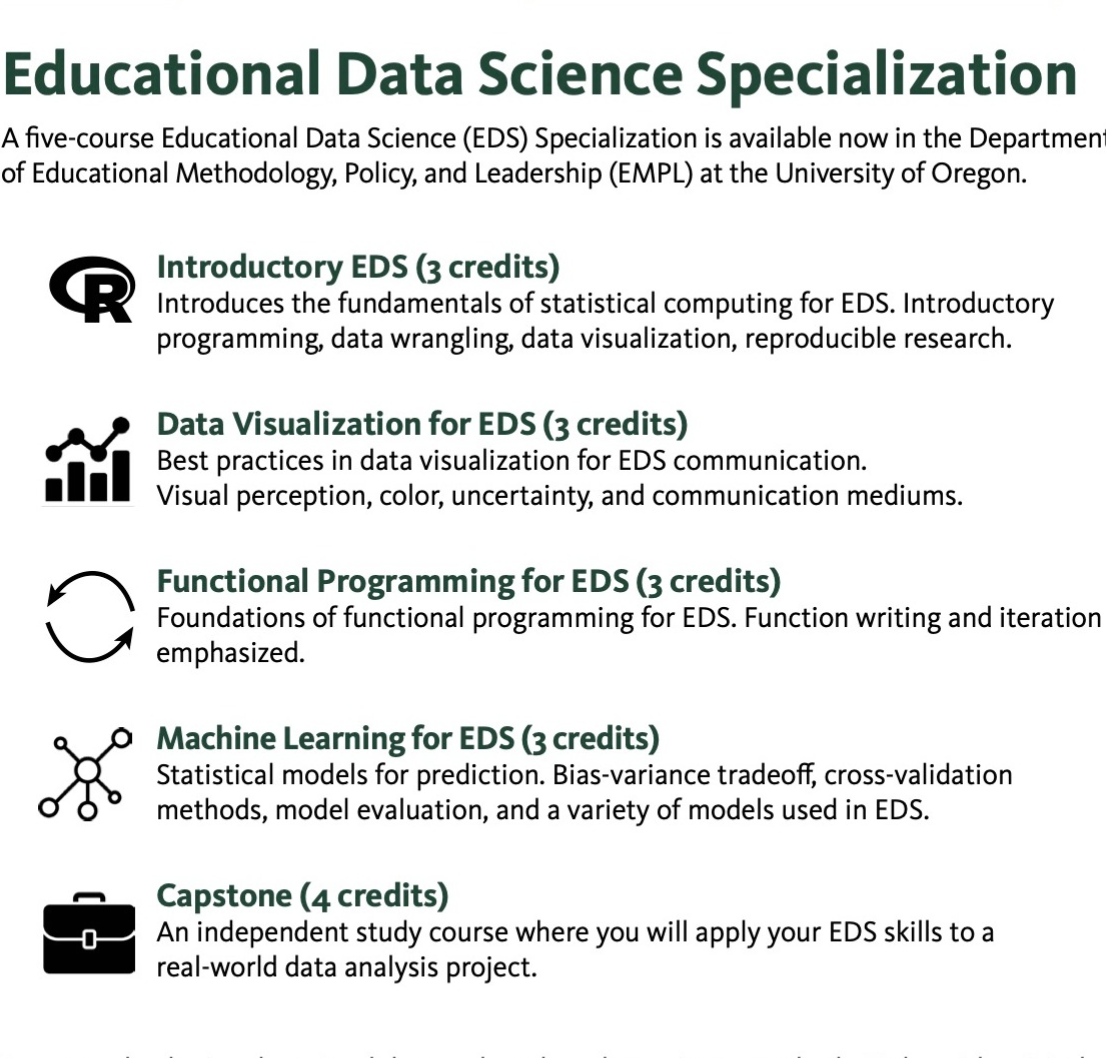
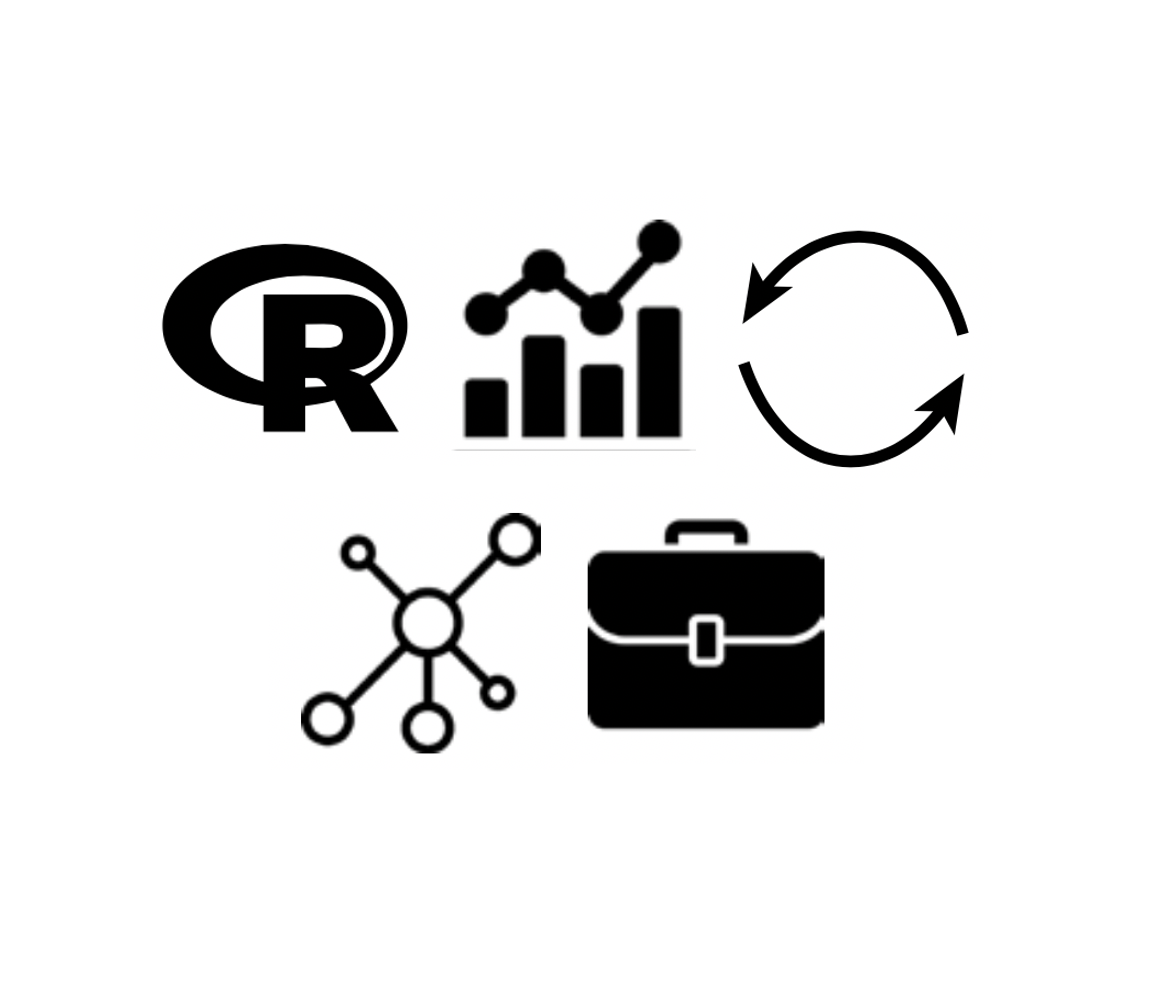
update projects

diff --git a/content/project/uopsych-r-bootcamp/index.md b/content/project/uopsych-r-bootcamp/index.md
@@ -37,6 +37,14 @@ I organized and taught a 3-day introductory R Bootcamp for the Department of Psy
 
 The materials have been designed such that you should be able to work through the slides and exercises at your own pace if you were not able to attend the bootcamp sessions. All materials are available on the bootcamp website: https://uopsych-r-bootcamp-2021.netlify.app/
 
+<div>
+  <iframe
+      width="700"
+      height="500"
+      src="https://uopsych-r-bootcamp-2021.netlify.app/">
+  </iframe>
+</div>
+
 ***
 
 This bootcamp gives a gentle introduction to R and RStudio, transforming and visualizing data with the tidyverse, and the basics of R Markdown. It assumes no prior experience with R or any other programming language and is designed to get learners up and running with the most widely useful tools for reproducible data analysis in R while emphasizing best practices for writing code and organizing project-oriented workflows. 
@@ -50,9 +58,9 @@ Specific topics include:
 3. [Functions & Debugging](https://uopsych-r-bootcamp-2021.netlify.app/post/03-functions/)
 4. [Introduction to the Tidyverse](https://uopsych-r-bootcamp-2021.netlify.app/post/04-intro-tidyverse/)
 5. [Importing Data & Project-oriented Workflows](https://uopsych-r-bootcamp-2021.netlify.app/post/05-importing-workflows/)
-6. [Data Visualization with {ggplot2}](https://uopsych-r-bootcamp-2021.netlify.app/post/06-ggplot2/)
-7. [Data Wrangling with {dplyr}](https://uopsych-r-bootcamp-2021.netlify.app/post/07-dplyr/)
-8. [Data Tidying with {tidyr}](https://uopsych-r-bootcamp-2021.netlify.app/post/08-tidyr/)
+6. [Data Visualization with ggplot2](https://uopsych-r-bootcamp-2021.netlify.app/post/06-ggplot2/)
+7. [Data Wrangling with dplyr](https://uopsych-r-bootcamp-2021.netlify.app/post/07-dplyr/)
+8. [Data Tidying with tidyr](https://uopsych-r-bootcamp-2021.netlify.app/post/08-tidyr/)
 9. [Reproducible Reporting with R Markdown](https://uopsych-r-bootcamp-2021.netlify.app/post/09-rmarkdown/)
 
 ***

diff --git a/content/project/first-year-project/index.md b/content/project/first-year-project/index.md
@@ -10,11 +10,11 @@ links:
 - icon: file-pdf
   icon_pack: fas
   name: Pre-print
-  url: preprint.pdf
+  url: project/first-year-project/preprint.pdf
 - icon: image
   icon_pack: fas
   name: Poster
-  url: poster.pdf
+  url: project/first-year-project/poster.pdf
 - icon: link
   icon_pack: fa
   name: Pre-registration
@@ -25,7 +25,6 @@ tags:
 - health
 - R
 ---
+![](pattern_expression.png)
 
 Health-risking behaviors (HRBs), e.g., excessive consumption of alcohol, tobacco, drugs and energy-dense food, contribute to long-term health problems, particularly among individuals who experienced early life adversity (EA). Though traditional executive control tasks are commonly assumed to be relevant for predicting real-world HRBs, recent work has called into question the ecological and predictive validity of these tasks. This study explores the predictive validity of cognitive and affective neural measures derived from a more passive cue reactivity task in a community sample of adults with self-control problems and a history of early adversity. We extracted trial-level estimates of whole-brain expression of canonical “inhibitory control” and “craving” patterns while participants viewed images of personally relevant health-risking substances during the cue reactivity task. Statistical modeling showed that greater trial-level expression of the “craving” and “inhibitory control” patterns predicted higher and lower desire ratings, respectively, for cue reactivity stimuli. However, only “craving” pattern expression predicted measures of real-world craving in daily life. Taken together, these results suggest that, among individuals with self-control problems, the real-world predictive validity of passive neural measures of affective processes may be superior to that of neural measures of executive control.
-
->For more details, see the [pre-print](preprint.pdf) and [poster](poster.pdf).

diff --git a/content/project/devaluation/index.md b/content/project/devaluation/index.md
@@ -11,11 +11,18 @@ links:
   icon_pack: fas
   name: More info
   url: https://ctn.uoregon.edu/projects/healthy-eating-study
-
+- icon: r-project
+  icon_pack: fab
+  name: R package
+  url: https://uosan.github.io/devaluation/
 tags:
 - neuroscience
 - health
 - machine learning
 ---
+<center>
+<img src="logo.png" width="350" height="350">
+</center>
+<br>
 
 This project is a large-scale randomized-control trial that investigates the efficacy and mechanisms of a healthy eating invention. Specifically, the RCT compares a cognitive reappraisal training, in which participants change the way they think about unhealthy food, to a behavioral response training, in which participants modify their physical motor responses to food stimuli to train neural inhibitory control circuits. Currently, I am working on developing a precision medicine analysis pipeline around a series of additional measures that have been added to this parent R01 as part of the National Center for Biotechnology Information’s [ADOPT Project](https://www.nhlbi.nih.gov/science/adopt) (Accumulating Data to Optimally Predict Obesity Treatment). The ADOPT project aims to solve the precision medicine problem for obesity treatment by identifying core measures assessing a range of behavioral, biological, environmental, and psychosocial factors that contribute to obesity. My role in this project is to develop the analytical infrastructure to create and validate composites of low-cost, easily administered individual difference measures that moderate response to the healthy eating interventions in terms of both magnitude and timing.

diff --git a/content/project/personality-diabetes/index.md b/content/project/personality-diabetes/index.md
@@ -1,6 +1,6 @@
 ---
 title: Predicting diabetes status from personality
-summary: A machine learning project
+summary: A machine learning project exploring the relationship between diabetes and personality 
 abstract: ""
 date: "2020-04-24T00:00:00Z"
 image:
@@ -15,11 +15,16 @@ links:
   icon_pack: fas
   name: Pre-registration
   url: https://osf.io/nqs8e/
-
+- icon: info-circle
+  icon_pack: fas
+  name: SAPA Project
+  url: https://www.sapa-project.org/
+  
 tags:
 - machine learning
 - health
 - R
 ---
+![](model_performance.png)
 
 Prior research suggests that diabetes is both a cause and consequence of various health behaviors and thus has complex links to personality. This study investigates the utility of personality in predicting diabetes status (Type 1, Type 2 or none) using a subset of items from the Synthetic Aperture Personality Assessment (SAPA) Project (N ≈ 645,000). We estimate the classification accuracy of various personality measures, including low- and high-dimensional data, using supervised machine learning techniques, e.g. random forests, support vector machines and neural networks. Results are compared across machine learning models and dimensionality of personality predictors. This project involves the automated generation of executable R scripts using non-standard evaluation within a tidyverse framework, allowing for parallel processing on high-performance computing clusters. This analysis informs the extent to which personality measurement could be applied in clinical contexts related to diabetes.

diff --git a/content/project/data-science-specialization/index.md b/content/project/data-science-specialization/index.md
@@ -1,7 +1,6 @@
 ---
 title: "Data Science Specialization"
-subtitle: ""
-excerpt: "A 5-course Data Science Specialization in Educational Leadership focused on reproducible analysis, data visualization, functional programming, and machine learning within a tidyverse framework."
+summary: "A 5-course Data Science Specialization in Educational Leadership I completed at the University of Oregon."
 date: 2021-11-11
 author: ""
 draft: false
@@ -9,10 +8,31 @@ tags:
 categories:
 # layout options: single or single-sidebar
 layout: single
+links:
+- icon: info-circle
+  icon_pack: fas
+  name: More info
+  url: https://education.uoregon.edu/specialization-educational-data-science
+- icon: github
+  icon_pack: fab
+  name: Course repos
+  url: https://github.com/uo-datasci-specialization
 ---
 
-Stuff
+A flexdashboard that visualizes data from the Big Cities Health Inventory. 
+https://brendanhcullen.github.io/data-viz-dashboard/
 
----
+A shiny dashboard that visualizes k-means clustering
+https://kdestasio.shinyapps.io/fpr_final_project/
+
+An R package for interfacing with data from the Devaluation study in UO SAN Lab
+https://uosan.github.io/devaluation/
+
+___
+
+<center>
+<img src="eds_specialization.jpg" width="500" height="644">
+</center>
+
 
 

diff --git a/content/project/rstudio-instructor-certification/index.md b/content/project/rstudio-instructor-certification/index.md
@@ -28,6 +28,7 @@ tags:
 - R
 - education
 ---
+![](certificate.jpeg)
 
 I recently went through RStudio's [Instructor Training and Certification Program](https://education.rstudio.com/trainers/), and I am now an RStudio Certified Instructor in the [tidyverse](https://www.tidyverse.org/). You can read more details in the links above. 
 
